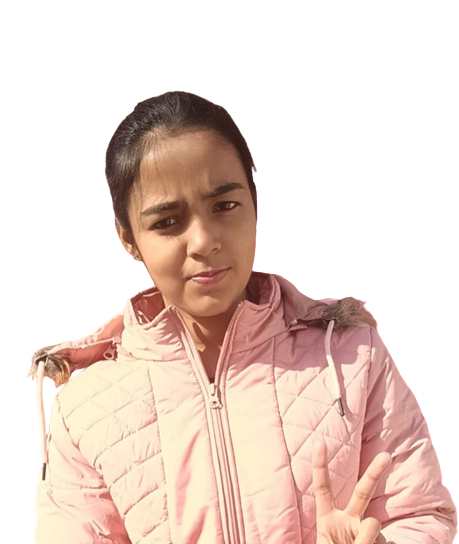
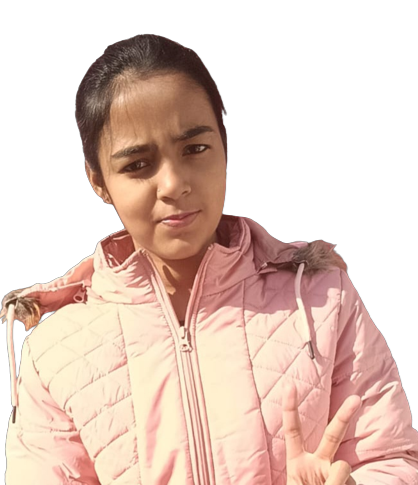
ui

diff --git a/src/components/aboutContent/AboutContent.js b/src/components/aboutContent/AboutContent.js
@@ -111,12 +111,12 @@ function AboutContent() {
             {cardItem.map((item, index) => (
               <Box key={"index"}>
                 <Card borderRadius={"8px"}
-                  direction={{ base: 'column', sm: 'row' }}
+                  direction={{sm: 'row' }}
                   overflow='hidden'
                   variant='outline'
                 >
                   <Box
-                    w={{ base: '100%', sm: '25%' }} p="16px" display={"inline-flex"} alignItems={"center"}>
+                    w={'25%'} p="16px" display={"inline-flex"} alignItems={"center"}>
                     <Link href={item.url} target="_blank">
                       <Image
                         objectFit='contain'
@@ -147,12 +147,12 @@ function AboutContent() {
           <SimpleGrid templateColumns={{ sm: "1fr", md: "1fr 1fr" }} spacingX="6" spacingY="10" mb="10">
             <Box>
               <Card borderRadius={"8px"}
-                direction={{ base: 'column', sm: 'row' }}
+                direction={{  sm: 'row' }}
                 overflow='hidden'
                 variant='outline'
               >
                 <Box
-                  w={{ base: '100%', sm: '30%' }} p="16px" display={"inline-flex"} alignItems={"center"}>
+                  w={{ sm: '30%' }} p="16px" display={"inline-flex"} alignItems={"center"}>
                   <Text fontSize="1.75rem" fontWeight="600">
                     2018-07 - 2021-08
                   </Text>
@@ -177,12 +177,12 @@ function AboutContent() {
 
             <Box>
               <Card borderRadius={"8px"}
-                direction={{ base: 'column', sm: 'row' }}
+                direction={{  sm: 'row' }}
                 overflow='hidden'
                 variant='outline'
               >
                 <Box
-                  w={{ base: '100%', sm: '30%' }} p="16px" display={"inline-flex"} alignItems={"center"}>
+                  w={{  sm: '30%' }} p="16px" display={"inline-flex"} alignItems={"center"}>
                   <Text fontSize="1.75rem" fontWeight="600">
                     2016-04 - 2018-03
                   </Text>

diff --git a/src/layout/Landing.js b/src/layout/Landing.js
@@ -10,17 +10,17 @@ import LandingContent from "../components/landingContent/LandingContent";
   
   function Landing() {
     return (
-        <Box width={"100%"} h={"100vh"} backgroundSize={"cover"} className="land_bg" py="30px" px={7} overflow={"hidden"}>
-          <SimpleGrid p={{sm:"30px", md:"40px", lg:"50px"}} templateColumns={{sm:"1fr", md:"3fr 2fr", lg:"1fr 1fr"}}  alignItems={"center"} spacing={5} h="100%">
+        <Flex alignItems={"center"} width={"100%"} h={"100vh"} backgroundSize={"cover"} className="land_bg" py="30px" px={7} overflow={"hidden"}>
+          <SimpleGrid p={{sm:"30px", md:"40px", lg:"50px"}} w="100%" templateColumns={{sm:"1fr", md:"3fr 2fr", lg:"1fr 1fr"}}  alignItems={"center"} spacing={5} h={{base:"auto", md:"auto", lg:"100vh"}}>
             <Box>
               <LandingContent />
             </Box>
-            <Flex  h="fit-content" justifyContent={"flex-end"} display={{sm:"none", md:"inline-block"}}>
-              <Image src={bg} display={{md:"none", lg:"inline-block"}} zIndex={"1"} maxH={{md:"60rem", lg:"100rem"}} position={{md:"initial",lg:"absolute"}} right={"10rem"}  top={"-5rem"}  objectFit="contain" height="auto" width="auto"/>
-              <Image src={profile} zIndex={"5"} maxH={{md:"50rem", lg:"100rem"}} position={{sm:"initial",md:"absolute"}}  bottom={"0"}  objectFit="contain" height="auto" width="auto"/>
+            <Flex position={"relative"} justifyContent={"flex-end"} display={{base:"none",sm:"none", md:"inline-block"}} h={"100%"}>
+              <Image src={bg} display={{md:"none", lg:"inline-block"}} zIndex={"1"} maxH={{md:"60rem", lg:"100rem"}} position={{md:"initial",lg:"absolute"}} right={"50px"}  top={"-100px"}  objectFit="contain" height="auto" width="auto"/>
+              <Image src={profile} zIndex={"5"} maxH={{md:"50rem", lg:"100rem"}} position={{sm:"initial",md:"absolute"}} right={"0"}  bottom={{md:"-40px",lg:"-50px"}}  objectFit="contain" height="auto" width="auto"/>
             </Flex>
           </SimpleGrid>
-        </Box>
+        </Flex>
     );
   }
   

diff --git a/src/components/landingContent/LandingContent.js b/src/components/landingContent/LandingContent.js
@@ -5,7 +5,7 @@ import {
     Text
 } from "@chakra-ui/react";
 import React from "react";
-// import resume from ""
+import rc from "../../assets/doc/swati-resume.pdf";
 function LandingContent() {
     return (
         <>
@@ -23,7 +23,7 @@ function LandingContent() {
                     <Link target="_blank" href="https://www.exalogic.co/" cursor={"pointer"}>Exalogic Consulting</Link>
                 </Text>
                 <Flex justifyContent="">
-                    <Text fontSize="1.5rem" p="8px 16px" borderRadius="4px" background="#ffffff" color="#032747" _hover={{background:"#032747", color:"#ffffff"}}> <Link fontWeight={600} _hover={{ textDecoration: "none" }} href="../../assets/doc/swati-resume" download="swati-resume.pdf">Download CV</Link></Text>
+                    <Text fontSize="1.5rem" p="8px 16px" borderRadius="4px" background="#ffffff" color="#032747" _hover={{background:"#032747", color:"#ffffff"}}> <Link fontWeight={600} _hover={{ textDecoration: "none" }} href={rc} download="swati-resume.pdf">Download CV</Link></Text>
                     <Text fontSize="1.5rem" ml="15px" p="8px 16px" borderRadius="4px" background="#ffffff" color="#032747" _hover={{background:"#032747", color:"#ffffff"}}> <Link fontWeight={600} _hover={{ textDecoration: "none" }} href="/passion">Go..</Link></Text>
                 </Flex>
             </Box>

diff --git a/src/navigation/PublicRouter.js b/src/navigation/PublicRouter.js
@@ -27,15 +27,15 @@ function PublicRouter() {
         <React.Fragment>
           <Box width={"100%"}>
             <Box>
-              <Box className="menu_bg" minH="60px"
-                maxH={"60px"} backgroundSize="cover" overflow="hidden">
+              <Box className="menu_bg" minH="64px"
+                maxH={"64px"} backgroundSize="cover" overflow="hidden">
                 <Flex className="menu_topbar" alignItems={"center"}>
                   <Navbar />
                 </Flex>
               </Box>
               <Box className="content-bg">
 
-                <Box >
+                <Box h={"calc(100vh - 154px)"} overflowY={"auto"}>
                   <Routes>
                     <Route exact path='/passion' element={<HomeIndexPage />} />
                     <Route path='/skills' element={<AboutIndexPage />} />

diff --git a/src/pages/contact/index.js b/src/pages/contact/index.js
@@ -22,7 +22,7 @@ function ContactIndexPage() {
         <Box>
              <Name/>
              </Box>
-          <SimpleGrid templateColumns={{md:"2fr 3fr", lg: "1fr 1fr" }}  flexDirection={{md:"column-reverse"}} spacing={5} minH="100vh">
+          <SimpleGrid templateColumns={{md:"2fr 3fr", lg: "1fr 1fr" }}  flexDirection={{md:"column-reverse"}} spacing={5}>
           <Flex  py="30" h="fit-content">
               <Image className="hoverable" mx={"auto"} src={about} top={"55px"}  maxH={{sm:"300px", md:"280px", lg:"320px", xl:"470px"}} maxW={{sm:"auto", md:"280px", lg:"320px", xl:"470px"}} objectFit="contain" height="auto" width="auto"/>
             </Flex>

diff --git a/src/pages/home/index.js b/src/pages/home/index.js
@@ -20,7 +20,7 @@ function HomeIndexPage() {
           <Box>
              <Name/>
              </Box>
-          <SimpleGrid pb="30" templateColumns={{md:"2fr 3fr", lg: "1fr 1fr" }}  alignItems={"center"} spacing={5} minH="60vh">
+          <SimpleGrid pb="30" templateColumns={{md:"2fr 3fr", lg: "1fr 1fr" }}  alignItems={"center"} spacing={5}>
           <Flex  h="fit-content">
               <Image className="hoverable" src={laptop} mx={"auto"} top={"55px"}   maxH={{sm:"300px", md:"280px", lg:"320px", xl:"470px"}} maxW={{sm:"auto", md:"280px", lg:"320px", xl:"470px"}} objectFit="contain" height="auto" width="auto"/>
             </Flex>

diff --git a/src/pages/gallery/index.js b/src/pages/gallery/index.js
@@ -17,7 +17,7 @@ function GalleryIndexPage() {
     <>
       <Box w={"100%"}>
         <Container maxW="container.xl" py={"0"} px={7}>
-        <SimpleGrid templateColumns={{ lg: "1fr" }} spacing={5} minH="100vh">
+        <SimpleGrid templateColumns={{ lg: "1fr" }} spacing={5}>
             <Box>
             <Name/>
             {/* <Text fontSize="2.25rem" textAlign={"center"} fontWeight="600" pb="10">

diff --git a/src/App.test.js b/src/App.test.js
@@ -3,6 +3,6 @@ import App from './App';
 
 test('renders learn react link', () => {
   render(<App />);
-  const linkElement = screen.getByText(/learn react/i);
+  const linkElement = screen.getByText(/Swati chaurasia/i);
   expect(linkElement).toBeInTheDocument();
 });
